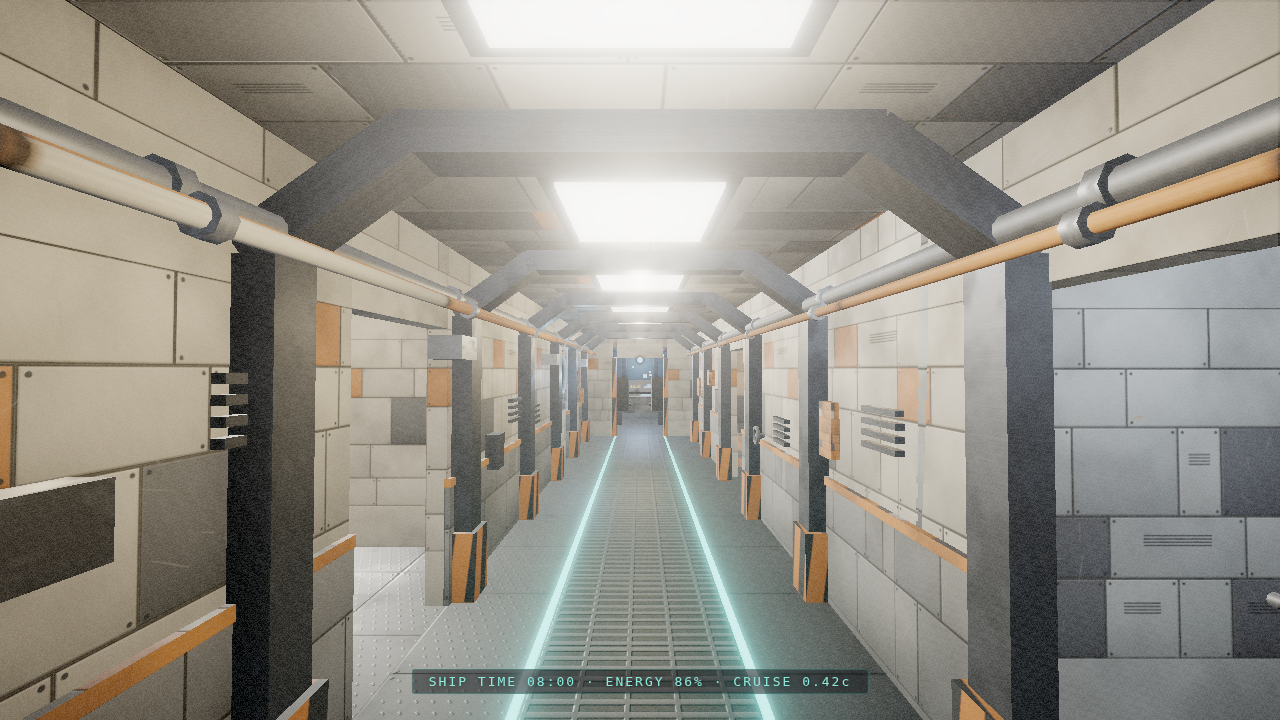
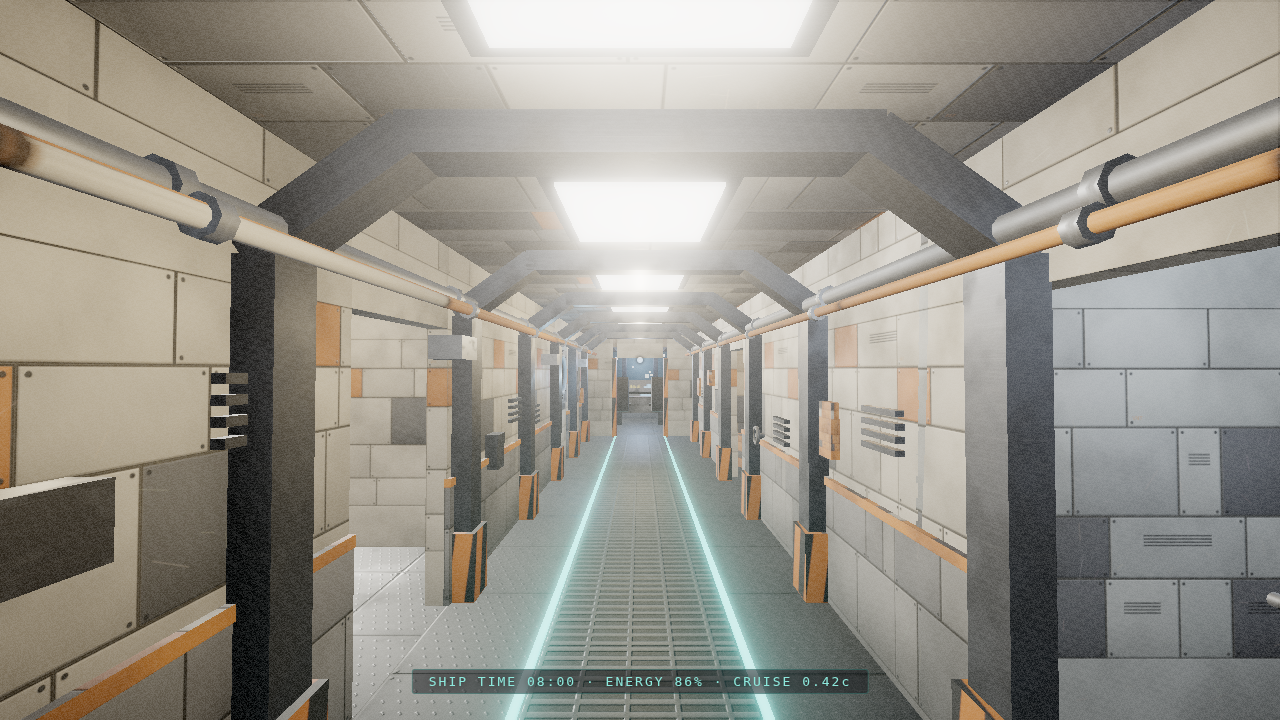
feat: scene stats, rest-mix pinning for rig, README, fixture tuning

diff --git a/src/main.js b/src/main.js
@@ -66,9 +66,21 @@ window.__shot = {
   set(x, y, z, yaw, pitch) { player.teleport(x, y, z, yaw, pitch); },
   release() { player.releaseDebug(); },
   setTime(t) { clock.elapsedTime = t; },
-  rest(m) { ship.setRestMix(m); },
+  rest(m) { interactions.setMix(m); },
   fps() { return lastFps; },
   probe() { return ship.probe(); },
+  stats() {
+    let meshes = 0, lights = 0, tris = 0;
+    scene.traverse((o) => {
+      if (o.isMesh || o.isPoints) {
+        meshes++;
+        const g = o.geometry;
+        tris += g.index ? g.index.count / 3 : (g.attributes.position?.count ?? 0) / 3;
+      }
+      if (o.isLight) lights++;
+    });
+    return { meshes, lights, tris: Math.round(tris) };
+  },
   info() { return renderer.info.render; },
 };
 window.__ready = true;

diff --git a/src/textures.js b/src/textures.js
@@ -522,7 +522,7 @@ export function createMaterials() {
     color: '#201408', emissive: '#ffc37a', emissiveIntensity: 2.6, roughness: 0.4,
   });
   M.stripWhite = new THREE.MeshStandardMaterial({
-    color: '#1a1c1e', emissive: '#fff4e0', emissiveIntensity: 1.7, roughness: 0.4,
+    color: '#1a1c1e', emissive: '#fff4e0', emissiveIntensity: 1.45, roughness: 0.4,
   });
   M.stripRed = new THREE.MeshStandardMaterial({
     color: '#1a0505', emissive: '#ff5230', emissiveIntensity: 1.8, roughness: 0.4,

diff --git a/src/interact.js b/src/interact.js
@@ -153,5 +153,11 @@ export function setupInteractions({ camera, interactables, player, setRestMix })
     }
   }
 
-  return { update };
+  // external override (debug/screenshot rig): pin the mix so easing can't fight it
+  function setMix(m) {
+    mixTarget = m; mixCurrent = m;
+    setRestMix(m);
+  }
+
+  return { update, setMix };
 }

diff --git a/README.md b/README.md
@@ -1,0 +1,40 @@
+# Spaceship
+
+First-person walkable interior of a small Star Wars-style freighter in flight.
+Everything is procedural — no downloaded models or textures.
+
+## Run
+
+```bash
+npm install
+npm run dev      # open the printed URL, click to grab pointer lock
+```
+
+- **WASD** move · **mouse** look · **E** interact
+- Interactions: bed (sleep → time skip + rest-cycle lighting), galley (eat), bathroom (refresh)
+
+## Screenshot / self-review rig
+
+```bash
+npm run shoot    # boots vite + headless Chrome (SwiftShader), writes shots/*.png
+```
+
+The page exposes `window.__shot` (teleport camera, set space time, force rest
+lighting, probe light intensities, scene stats) so the rig can frame
+deterministic shots and verify the interaction flow end to end.
+
+## Architecture
+
+| Module | Responsibility |
+| --- | --- |
+| `src/main.js` | renderer, scene, PMREM env, frame loop, debug rig |
+| `src/player.js` | pointer lock, WASD, head bob, capsule-vs-AABB collision |
+| `src/ship.js` | interior kit-bash: corridor, cockpit, quarters, galley, bathroom; lights + rest-cycle mix |
+| `src/space.js` | parallax star shells, near dust drift, gas giant + atmosphere rim, nebula billboards |
+| `src/interact.js` | center-screen raycast, hover highlight + prompt, sleep/eat/refresh flows, HUD status |
+| `src/post.js` | N8AO → UnrealBloom → vignette/grain → OutputPass (ACES on renderer) |
+| `src/textures.js` | canvas-generated PBR maps: painted panels, brushed metal, deck plate, grate, fabric; console screens |
+
+Coordinates: corridor runs along z (-7…7), cockpit forward (-z), floor y=0,
+ceiling 2.6 m. Collision is a flat list of `THREE.Box3` resolved against a
+horizontal circle (player capsule), so visual detail never blocks movement.

diff --git a/PROGRESS.md b/PROGRESS.md
@@ -64,3 +64,13 @@
 - Sleep black hold lengthened (~3.5 s) — also feels better as a time skip.
 - shoot.mjs interaction shots are state-driven (CSS opacity polling), not sleep-based — software GL
   screenshots are slow and were racing the page timeline.
+
+## Iteration 6 — fixture glow, rest-mix ownership, docs
+- Ceiling fixture emissive 1.7 → 1.45 (no more blown discs).
+- `__shot.rest()` now pins the interaction mix (easing was overwriting the forced rest state next frame).
+- Scene stats: 274 meshes / 11 lights / ~17k tris — far under budget for 60fps on a mid-range GPU.
+- README.md: run/controls/rig/architecture.
+
+### Judge notes
+- ✅ Rest cycle corridor: cooler, dimmer, teal guidance — reads as night watch.
+- ✅ All 9 framed shots pass; interaction flow (prompt → black + "8 HOURS PASS" → rest wake) verified.
